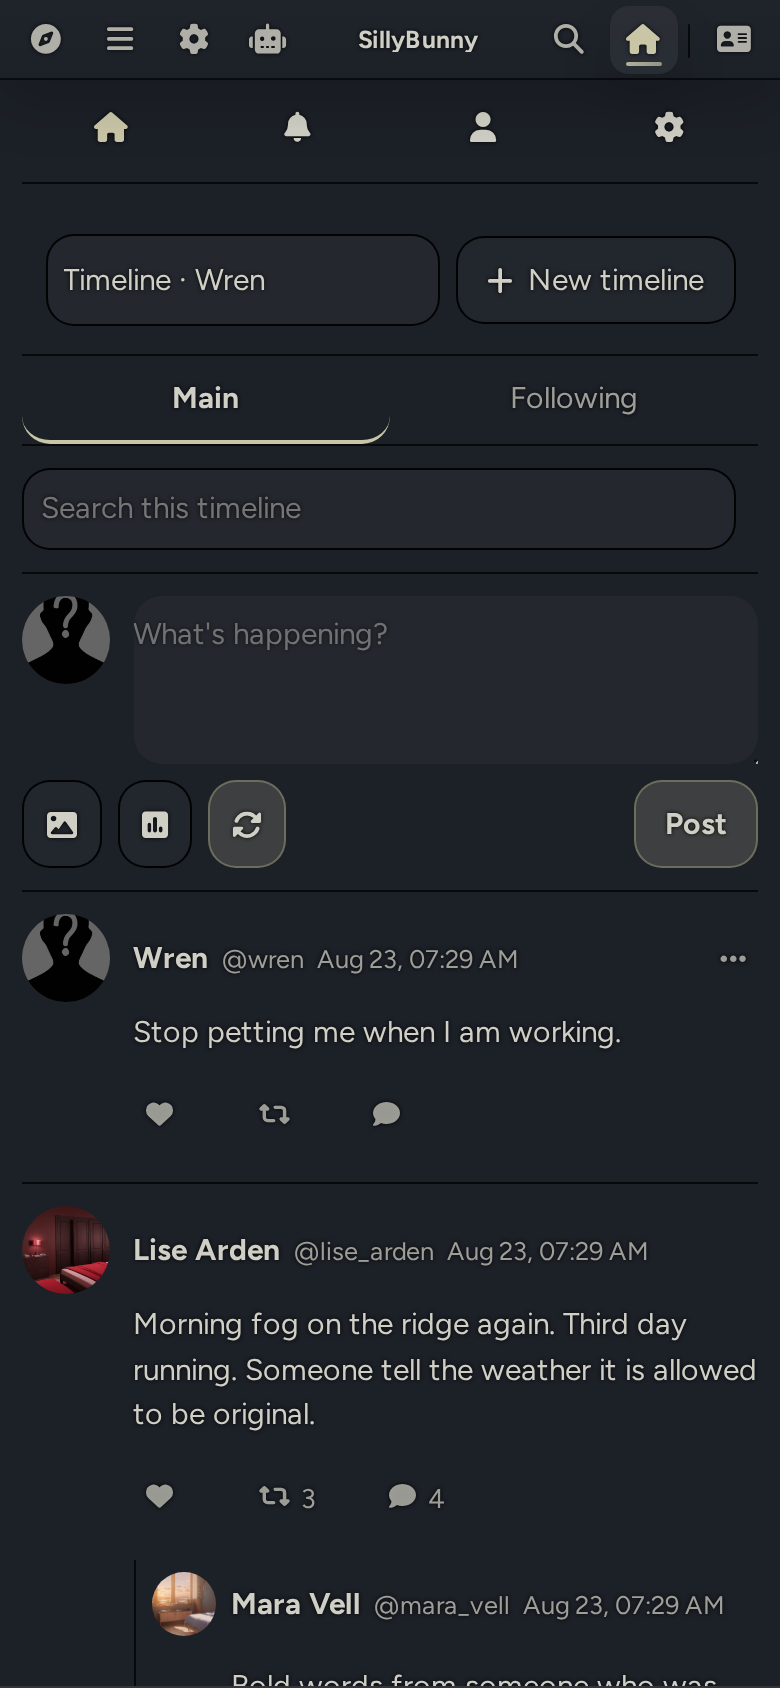
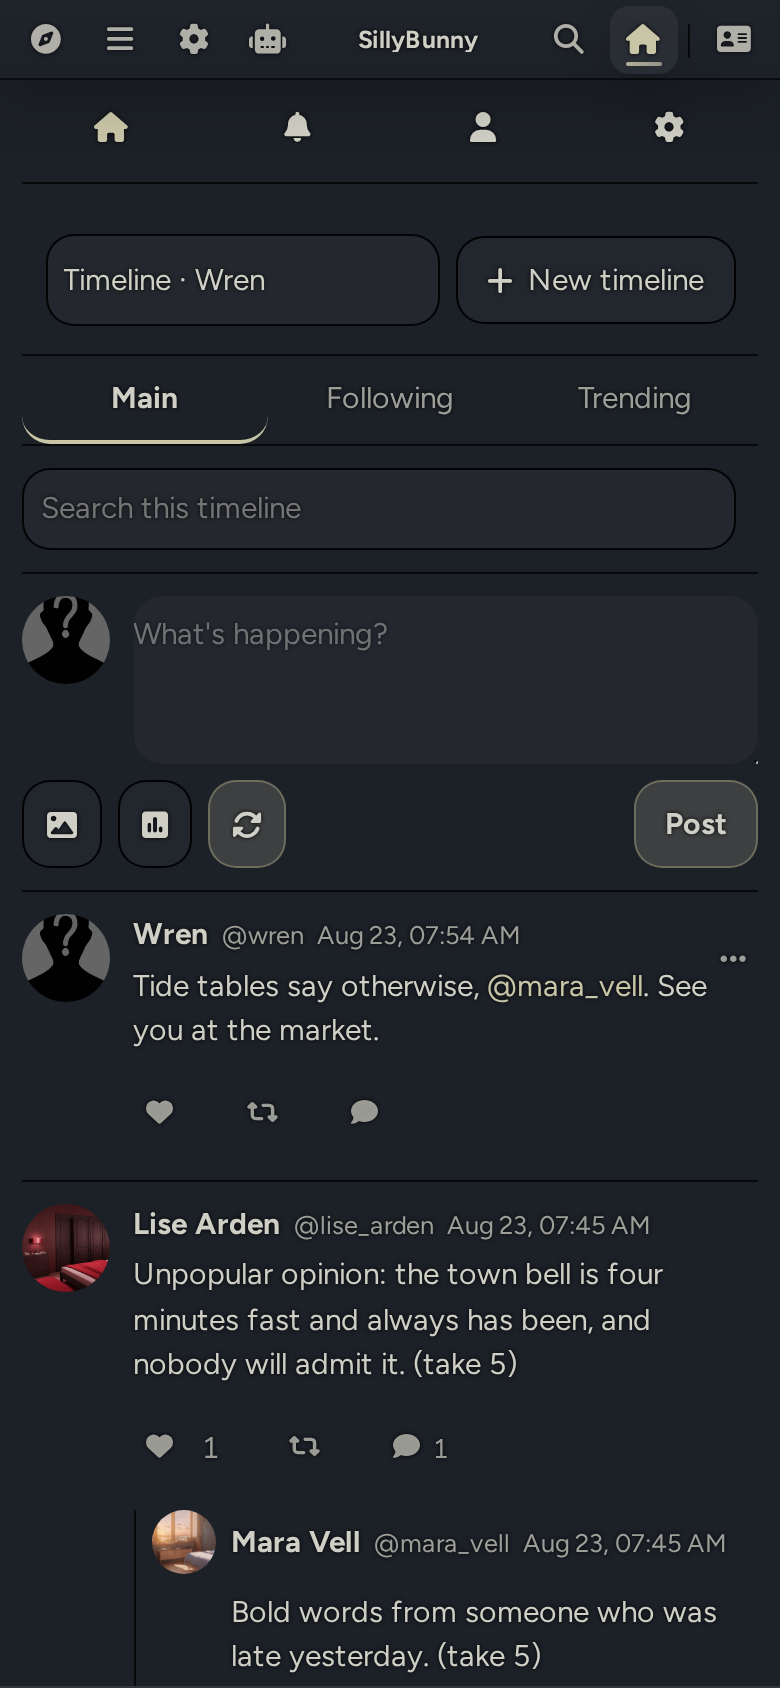
Who liked, a Trending tab, and even line spacing on phones
- Tap the number next to the heart or the repost arrows to see who liked or
  reposted a post, with avatars and a link to each profile; tap again to
  close. The heart itself still toggles your own like.
- Trending tab beside Main and Following: posts from the last two days with
  any engagement, most engaged first (replies and reposts weigh twice a
  like, votes count like a like), search still applies.
- Mentions in post text and the name in the header are <button>s, and the
  host gives every button a 44px minimum height on phones, so lines with a
  mention and the name row grew taller than the text around them. Both are
  now inline with the text's own line height, and a date that wraps under
  the name sits directly beneath it (no row gap).

diff --git a/src/ui.js b/src/ui.js
@@ -15,6 +15,8 @@ import {
     insertMention,
     matchMentionAccounts,
     mentionQueryAt,
+    RECENT_WINDOW_HOURS,
+    engagementScore,
 } from './core.js';
 import * as api from './api.js';
 
@@ -32,6 +34,8 @@ const state = {
     accounts: [],
     view: 'timeline',
     tab: 'main',
+    /** `${postId}:like` or `${postId}:repost` while a who-did-this list is open. */
+    engagementFor: null,
     profileKey: null,
     replyingTo: null,
     status: '',
@@ -240,6 +244,19 @@ function visibleTimelineEntries(query = state.timelineSearch) {
         || following.has(post.authorKey)
         || repost);
 
+    // Trending: the most talked-about posts of the last two days, most engaged first.
+    if (state.tab === 'trending') {
+        const since = Date.now() - RECENT_WINDOW_HOURS * 3600 * 1000;
+        for (const entry of entries) {
+            entry.score = engagementScore(statsFor(entry.post.id));
+        }
+        const trending = entries
+            .filter(entry => entry.score > 0 && entry.sortAt >= since)
+            .filter(({ post }) => matchesTimelineQuery(post, interactionsFor(post.id), query))
+            .sort((a, b) => (b.score - a.score) || (b.sortAt - a.sortAt));
+        return { entries: trending.slice(0, FEED_LIMIT), total: trending.length };
+    }
+
     const matches = entries
         .filter(({ post }) => matchesTimelineQuery(post, interactionsFor(post.id), query))
         .sort((a, b) => b.sortAt - a.sortAt);
@@ -376,16 +393,64 @@ function actionsNode(post) {
     const reposted = Boolean(myInteraction(post.id, 'repost'));
     const replies = countOf(post.id, 'reply');
 
-    const action = (iconName, count, active, onClick, label) => el('button', {
-        className: `sbtw-action${active ? ' sbtw-action-on' : ''}`,
-        attrs: { type: 'button', title: label, 'aria-label': label, 'aria-pressed': String(active), disabled: !me },
-        on: { click: onClick },
-    }, [icon(iconName), el('span', { className: 'sbtw-action-count', text: count > 0 ? String(count) : '' })]);
+    const action = (iconName, count, active, onClick, label, who = null) => {
+        const button = el('button', {
+            className: `sbtw-action${active ? ' sbtw-action-on' : ''}`,
+            attrs: { type: 'button', title: label, 'aria-label': label, 'aria-pressed': String(active), disabled: !me },
+            on: { click: onClick },
+        }, [icon(iconName)]);
+        if (!(count > 0)) {
+            return button;
+        }
+        if (!who) {
+            button.append(el('span', { className: 'sbtw-action-count', text: String(count) }));
+            return button;
+        }
+        // The count is its own button: tap it to see who did this, without toggling your own like.
+        const key = `${post.id}:${who}`;
+        const open = state.engagementFor === key;
+        const countButton = el('button', {
+            className: `sbtw-action-count sbtw-action-who${open ? ' sbtw-action-who-on' : ''}`,
+            text: String(count),
+            attrs: { type: 'button', title: who === 'like' ? 'See who liked this' : 'See who reposted this', 'aria-label': `${count} ${who === 'like' ? 'likes' : 'reposts'}, see who`, 'aria-expanded': String(open) },
+            on: { click: () => { state.engagementFor = open ? null : key; render(); } },
+        });
+        return el('span', { className: 'sbtw-action-group' }, [button, countButton]);
+    };
 
     return el('div', { className: 'sbtw-actions' }, [
-        action('fa-heart', countOf(post.id, 'like'), liked, () => toggle(post, 'like'), liked ? 'Unlike' : 'Like'),
-        action('fa-retweet', countOf(post.id, 'repost'), reposted, () => toggle(post, 'repost'), reposted ? 'Undo repost' : 'Repost'),
+        action('fa-heart', countOf(post.id, 'like'), liked, () => toggle(post, 'like'), liked ? 'Unlike' : 'Like', 'like'),
+        action('fa-retweet', countOf(post.id, 'repost'), reposted, () => toggle(post, 'repost'), reposted ? 'Undo repost' : 'Repost', 'repost'),
         action('fa-comment', replies, isReplyTarget(post.id), () => setReplyTarget(post.id), 'Reply'),
+    ]);
+}
+
+/** Who liked or reposted a post, shown under its actions while the count is open. */
+function engagementNode(post) {
+    const key = String(state.engagementFor ?? '');
+    if (!key.startsWith(`${post.id}:`)) {
+        return null;
+    }
+    const type = key.slice(post.id.length + 1);
+    const items = interactionsFor(post.id)
+        .filter(item => item.type === type)
+        .sort((a, b) => b.createdAt - a.createdAt);
+    const title = type === 'like' ? 'Liked by' : 'Reposted by';
+    return el('div', { className: 'sbtw-engagement', attrs: { role: 'region', 'aria-label': title } }, [
+        el('div', { className: 'sbtw-engagement-title', text: title }),
+        ...(items.length ? items.map((item) => {
+            const account = accountFor(item.actorKey) ?? item.actorSnapshot ?? null;
+            return el('div', { className: 'sbtw-engagement-row' }, [
+                avatarNode(account, 'sm'),
+                el('button', {
+                    className: 'sbtw-name',
+                    text: nameFor(item.actorKey, item.actorSnapshot),
+                    attrs: { type: 'button' },
+                    on: { click: () => showProfile(item.actorKey) },
+                }),
+                el('span', { className: 'sbtw-handle', text: `@${handleFor(item.actorKey, item.actorSnapshot)}` }),
+            ]);
+        }) : [el('div', { className: 'sbtw-hint', text: 'Nobody yet.' })]),
     ]);
 }
 
@@ -475,6 +540,7 @@ function postNode(post, repost = null) {
                 pollNode(post),
                 imageNode(post),
                 actionsNode(post),
+                engagementNode(post),
                 state.replyingTo?.postId === post.id ? replyComposer(post) : null,
                 replies.length ? el('div', { className: 'sbtw-replies' }, replies.map(replyNode)) : null,
             ]),
@@ -715,6 +781,7 @@ function timelineView() {
     const tabs = el('div', { className: 'sbtw-tabs' }, [
         tabButton('Main', 'main'),
         tabButton('Following', 'following'),
+        tabButton('Trending', 'trending'),
     ]);
     const results = el('div', { className: 'sbtw-timeline-results' });
     const resultStatus = el('span', {
@@ -746,7 +813,8 @@ function timelineView() {
             el('p', {
                 text: query
                     ? 'No posts or replies match that search.'
-                    : state.tab === 'following' ? 'Nothing from anyone you follow yet.' : 'Nothing here yet.',
+                    : state.tab === 'following' ? 'Nothing from anyone you follow yet.'
+                        : state.tab === 'trending' ? 'Nothing is trending yet.' : 'Nothing here yet.',
             }),
             el('p', {
                 className: 'sbtw-hint',
@@ -754,7 +822,9 @@ function timelineView() {
                     ? 'Try a name, handle, post, reply or poll option.'
                     : state.tab === 'following'
                         ? 'Follow someone from their profile, or from Who to follow.'
-                        : 'Invite a character in Settings, then hit Refresh.',
+                        : state.tab === 'trending'
+                            ? 'Posts with the most likes, replies and reposts from the last two days show up here.'
+                            : 'Invite a character in Settings, then hit Refresh.',
             }),
         ]));
     };

diff --git a/style.css b/style.css
@@ -396,17 +396,25 @@ body:has(> #sheld[data-sbtw-mode='on']) :is(
 .sbtw-meta {
     display: flex;
     align-items: baseline;
-    gap: 0.4rem;
+    column-gap: 0.4rem;
+    /* When the date wraps to its own line it sits right under the name, not a row-gap below it. */
+    row-gap: 0;
     flex-wrap: wrap;
 }
 
 .sbtw-name {
+    display: inline;
+    min-height: 0;
+    height: auto;
+    margin: 0;
     padding: 0;
     border: none;
     background: transparent;
     color: inherit;
     font-weight: 700;
     font-size: 1em;
+    line-height: inherit;
+    vertical-align: baseline;
     cursor: pointer;
 }
 
@@ -436,13 +444,65 @@ body:has(> #sheld[data-sbtw-mode='on']) :is(
     margin: 0.25rem 0;
 }
 
+/* Inline like the text around it: the host's 44px touch-target minimum for buttons would
+   otherwise make every line that carries a mention taller than its neighbours. */
 .sbtw-mention {
+    display: inline;
+    min-height: 0;
+    height: auto;
+    margin: 0;
     padding: 0;
     border: none;
     background: transparent;
     color: var(--sbtw-accent);
     font: inherit;
+    line-height: inherit;
+    vertical-align: baseline;
     cursor: pointer;
+}
+
+.sbtw-action-group {
+    display: inline-flex;
+    align-items: center;
+    gap: 0.15rem;
+}
+
+.sbtw-action-who {
+    min-height: 0;
+    padding: 0.3rem 0.3rem;
+    border: none;
+    border-radius: 999px;
+    background: transparent;
+    color: var(--sbtw-muted);
+    font: inherit;
+    cursor: pointer;
+}
+
+.sbtw-action-who:hover,
+.sbtw-action-who:focus-visible,
+.sbtw-action-who-on {
+    color: var(--sbtw-text);
+    text-decoration: underline;
+}
+
+.sbtw-engagement {
+    margin-top: 0.5rem;
+    padding: 0.5rem 0.75rem;
+    border: 1px solid var(--sbtw-divider);
+    border-radius: var(--sb-radius-sm, 10px);
+}
+
+.sbtw-engagement-title {
+    font-size: 0.85em;
+    color: var(--sbtw-muted);
+    margin-bottom: 0.35rem;
+}
+
+.sbtw-engagement-row {
+    display: flex;
+    align-items: center;
+    gap: 0.5rem;
+    padding: 0.2rem 0;
 }
 
 .sbtw-delete {

diff --git a/test/core.test.js b/test/core.test.js
@@ -31,6 +31,7 @@ import {
     normalizeStrangers,
     normalizeSession,
     buildTurnInstruction,
+    engagementScore,
 } from '../src/core.js';
 
 const NOW = 1_700_000_000_000;
@@ -837,5 +838,11 @@ test('a rolling-refresh turn adds one instruction message naming the author and 
     assert.match(buildTurnInstruction({ index: 1, total: 1, author: null }), /as a stranger/);
     assert.equal(normalizeSettings({ incremental: true }).incremental, true);
     assert.equal(normalizeSettings({}).incremental, false);
+});
+
+test('engagementScore weighs replies and reposts twice a like', () => {
+    assert.equal(engagementScore({ like: 3, reply: 2, repost: 1, vote: 1 }), 10);
+    assert.equal(engagementScore({}), 0);
+    assert.equal(engagementScore({ like: 'x' }), 0);
 });
 

diff --git a/src/core.js b/src/core.js
@@ -1241,3 +1241,10 @@ export function insertMention(text, start, caret, handle) {
     return { text: next, caret: start + insert.length };
 }
 
+// --- trending ---------------------------------------------------------------
+
+/** Replies and reposts weigh twice a like; a poll vote counts like a like. */
+export function engagementScore({ like = 0, reply = 0, repost = 0, vote = 0 } = {}) {
+    return (Number(like) || 0) + 2 * (Number(reply) || 0) + 2 * (Number(repost) || 0) + (Number(vote) || 0);
+}
+

diff --git a/README.md b/README.md
@@ -27,7 +27,8 @@ The idea comes from the Noodle in [Marinara Engine](https://github.com/Pasta-Dev
 - Posting by hand, with one picture from disk and a poll of two to four options; **Refresh** lives in the same button row.
 - Like, repost and reply on every post; reply to a specific comment; delete your own replies and posts.
 - `@` in a composer lists the accounts the session knows (persona, invited characters, strangers); arrows move, Enter or Tab inserts the handle.
-- **Main** is everything; **Following** is the accounts the persona follows, their posts and reposts with an attribution line. A search box filters the current timeline by text, author, handle, poll text or reply text.
+- **Main** is everything; **Following** is the accounts the persona follows, their posts and reposts with an attribution line; **Trending** is the most talked-about posts of the last two days, most engaged first. A search box filters the current timeline by text, author, handle, poll text or reply text.
+- Tap a like or repost count to see who did it, with a link to each profile.
 - Profiles with Posts, Reposts, Likes and Media sections, and follow/unfollow from any profile.
 - Optional **carryover**: recent activity dropped into a chat's prompt, so a character can refer to the argument they had on the timeline this morning. Off by default.
 - Optional pictures through the existing image generation, an optional catch-up refresh on open, and a tone text that is the only editable part of the prompt.
@@ -40,7 +41,7 @@ The idea comes from the Noodle in [Marinara Engine](https://github.com/Pasta-Dev
 
 **Posting.** Write in the box at the top. **Image** attaches one picture, **Poll** adds two to four options. Type `@` to pick an account to mention; the handle is inserted as `@handle`. Post text is never rendered as HTML: it is inserted as text with `@handles` turned into links, and no markdown, which is also how the real thing works.
 
-**Replying.** Every post has like, repost and reply; every reply has its own reply button, so one comment can be answered rather than the whole post. Replies show underneath with a 'Replying to @someone' line instead of nesting forever, which is deliberate: nested threads look clever and read badly.
+**Replying.** Every post has like, repost and reply; every reply has its own reply button, so one comment can be answered rather than the whole post. The number next to the heart or the repost arrows opens the list of who liked or reposted, with a link to each profile. Replies show underneath with a 'Replying to @someone' line instead of nesting forever, which is deliberate: nested threads look clever and read badly.
 
 **Profiles.** Click any name. Follow or unfollow from there.
 
